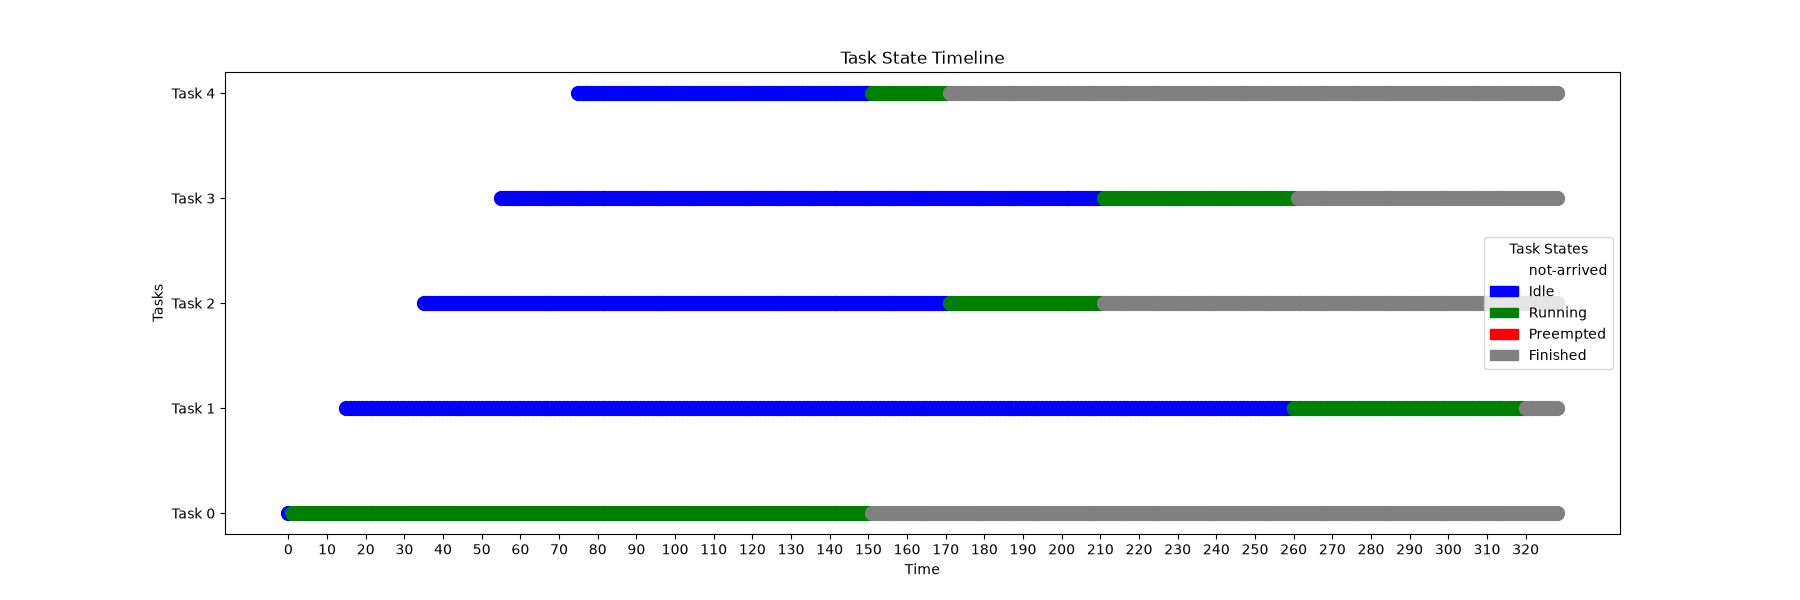
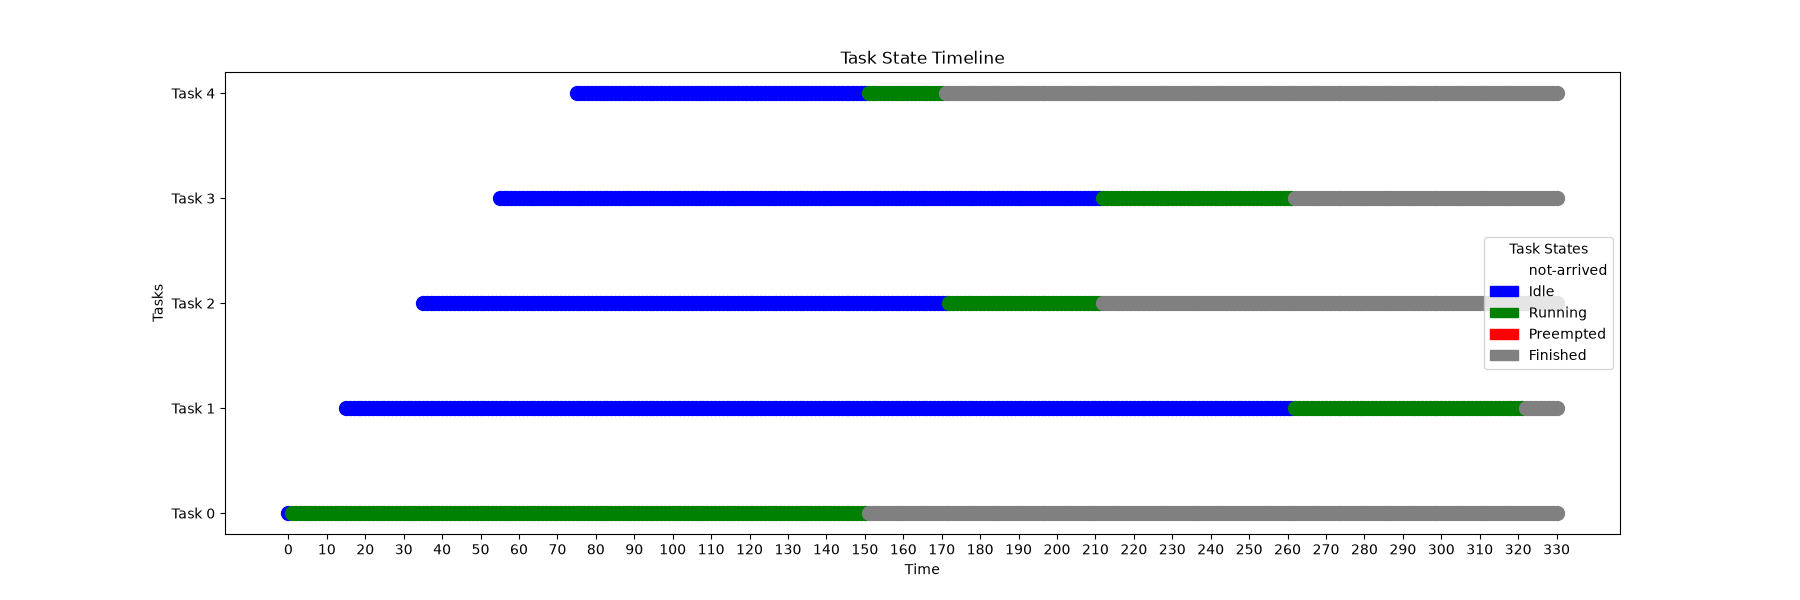
fixed spn

Changed region(s): [[0.2178, 0.9, 0.8711, 0.93]]

diff --git a/ex3_scheduling/schedulers.c b/ex3_scheduling/schedulers.c
@@ -105,13 +105,8 @@ void first_come_first_served(struct Task **tasks, int taskCount, int timeout)
 void shortest_process_next(struct Task **tasks, int taskCount, int timeout)
 {
     // Implement your solution here
-<<<<<<< HEAD
-    int fallbackIdx = 0;
-	printf("i have started");
-=======
     int taskIndex = 0;
 
->>>>>>> b408681 (made SPN)
     do
     {
         // Find the shortest available task
@@ -119,15 +114,8 @@ void shortest_process_next(struct Task **tasks, int taskCount, int timeout)
 
         for (int i = 0; i < taskCount; i++)
         {
-		printf("Task id: %d, Fallback id %d", taskIndex, fallbackIdx);
             // Skip finished tasks or those that have not arrived yet
-<<<<<<< HEAD
-            if (tasks[taskIndex]->state == finished || tasks[taskIndex]->arrivalTime > globalTime)
-            {
-                // taskIndex = (taskIndex + 1) % taskCount;
-=======
             if (tasks[i]->state == finished || tasks[i]->arrivalTime > globalTime)
->>>>>>> b408681 (made SPN)
                 continue;
 
             // Pick shortest available task
@@ -136,50 +124,25 @@ void shortest_process_next(struct Task **tasks, int taskCount, int timeout)
             {
                 taskIndex = i;
             }
-	    //check runtime against fallback
-	    if(fallbackIdx == -1)
-	    {
-	       	fallbackIdx = taskIndex;
-	    }
-	    if(tasks[taskIndex]->totalRuntime < tasks[fallbackIdx]->totalRuntime)
-	    {
-		fallbackIdx = taskIndex;
-	    }
         }
 
-<<<<<<< HEAD
-	if(fallbackIdx == -1){
-		continue;
-	}
-
-        // Set the task state to running
-        if (tasks[fallbackIdx]->startTime == -1)
-            tasks[fallbackIdx]->startTime = globalTime;
-        set_task_state(tasks[fallbackIdx], running);
-	printf("Task %d set to running", fallbackIdx);
-        // Wait for task to finish
-        while (tasks[fallbackIdx]->state != finished)
-=======
         // No task is available
         if (taskIndex == -1)
->>>>>>> b408681 (made SPN)
         {
             continue;
         }
-<<<<<<< HEAD
-=======
 
         // Set the task state to running
         if (tasks[taskIndex]->startTime == -1)
             tasks[taskIndex]->startTime = globalTime;
         set_task_state(tasks[taskIndex], running);
+
         // Wait for task to finish
         while (tasks[taskIndex]->state != finished)
         {
             wait_for_rescheduling(1, tasks[taskIndex]);
         }
 
->>>>>>> b408681 (made SPN)
     } while (globalTime < timeout);
 }
 
@@ -195,4 +158,3 @@ void feedback(struct Task **tasks, int taskCount, int timeout, int quantum)
 {
     // Implement your solution here
 }
-
